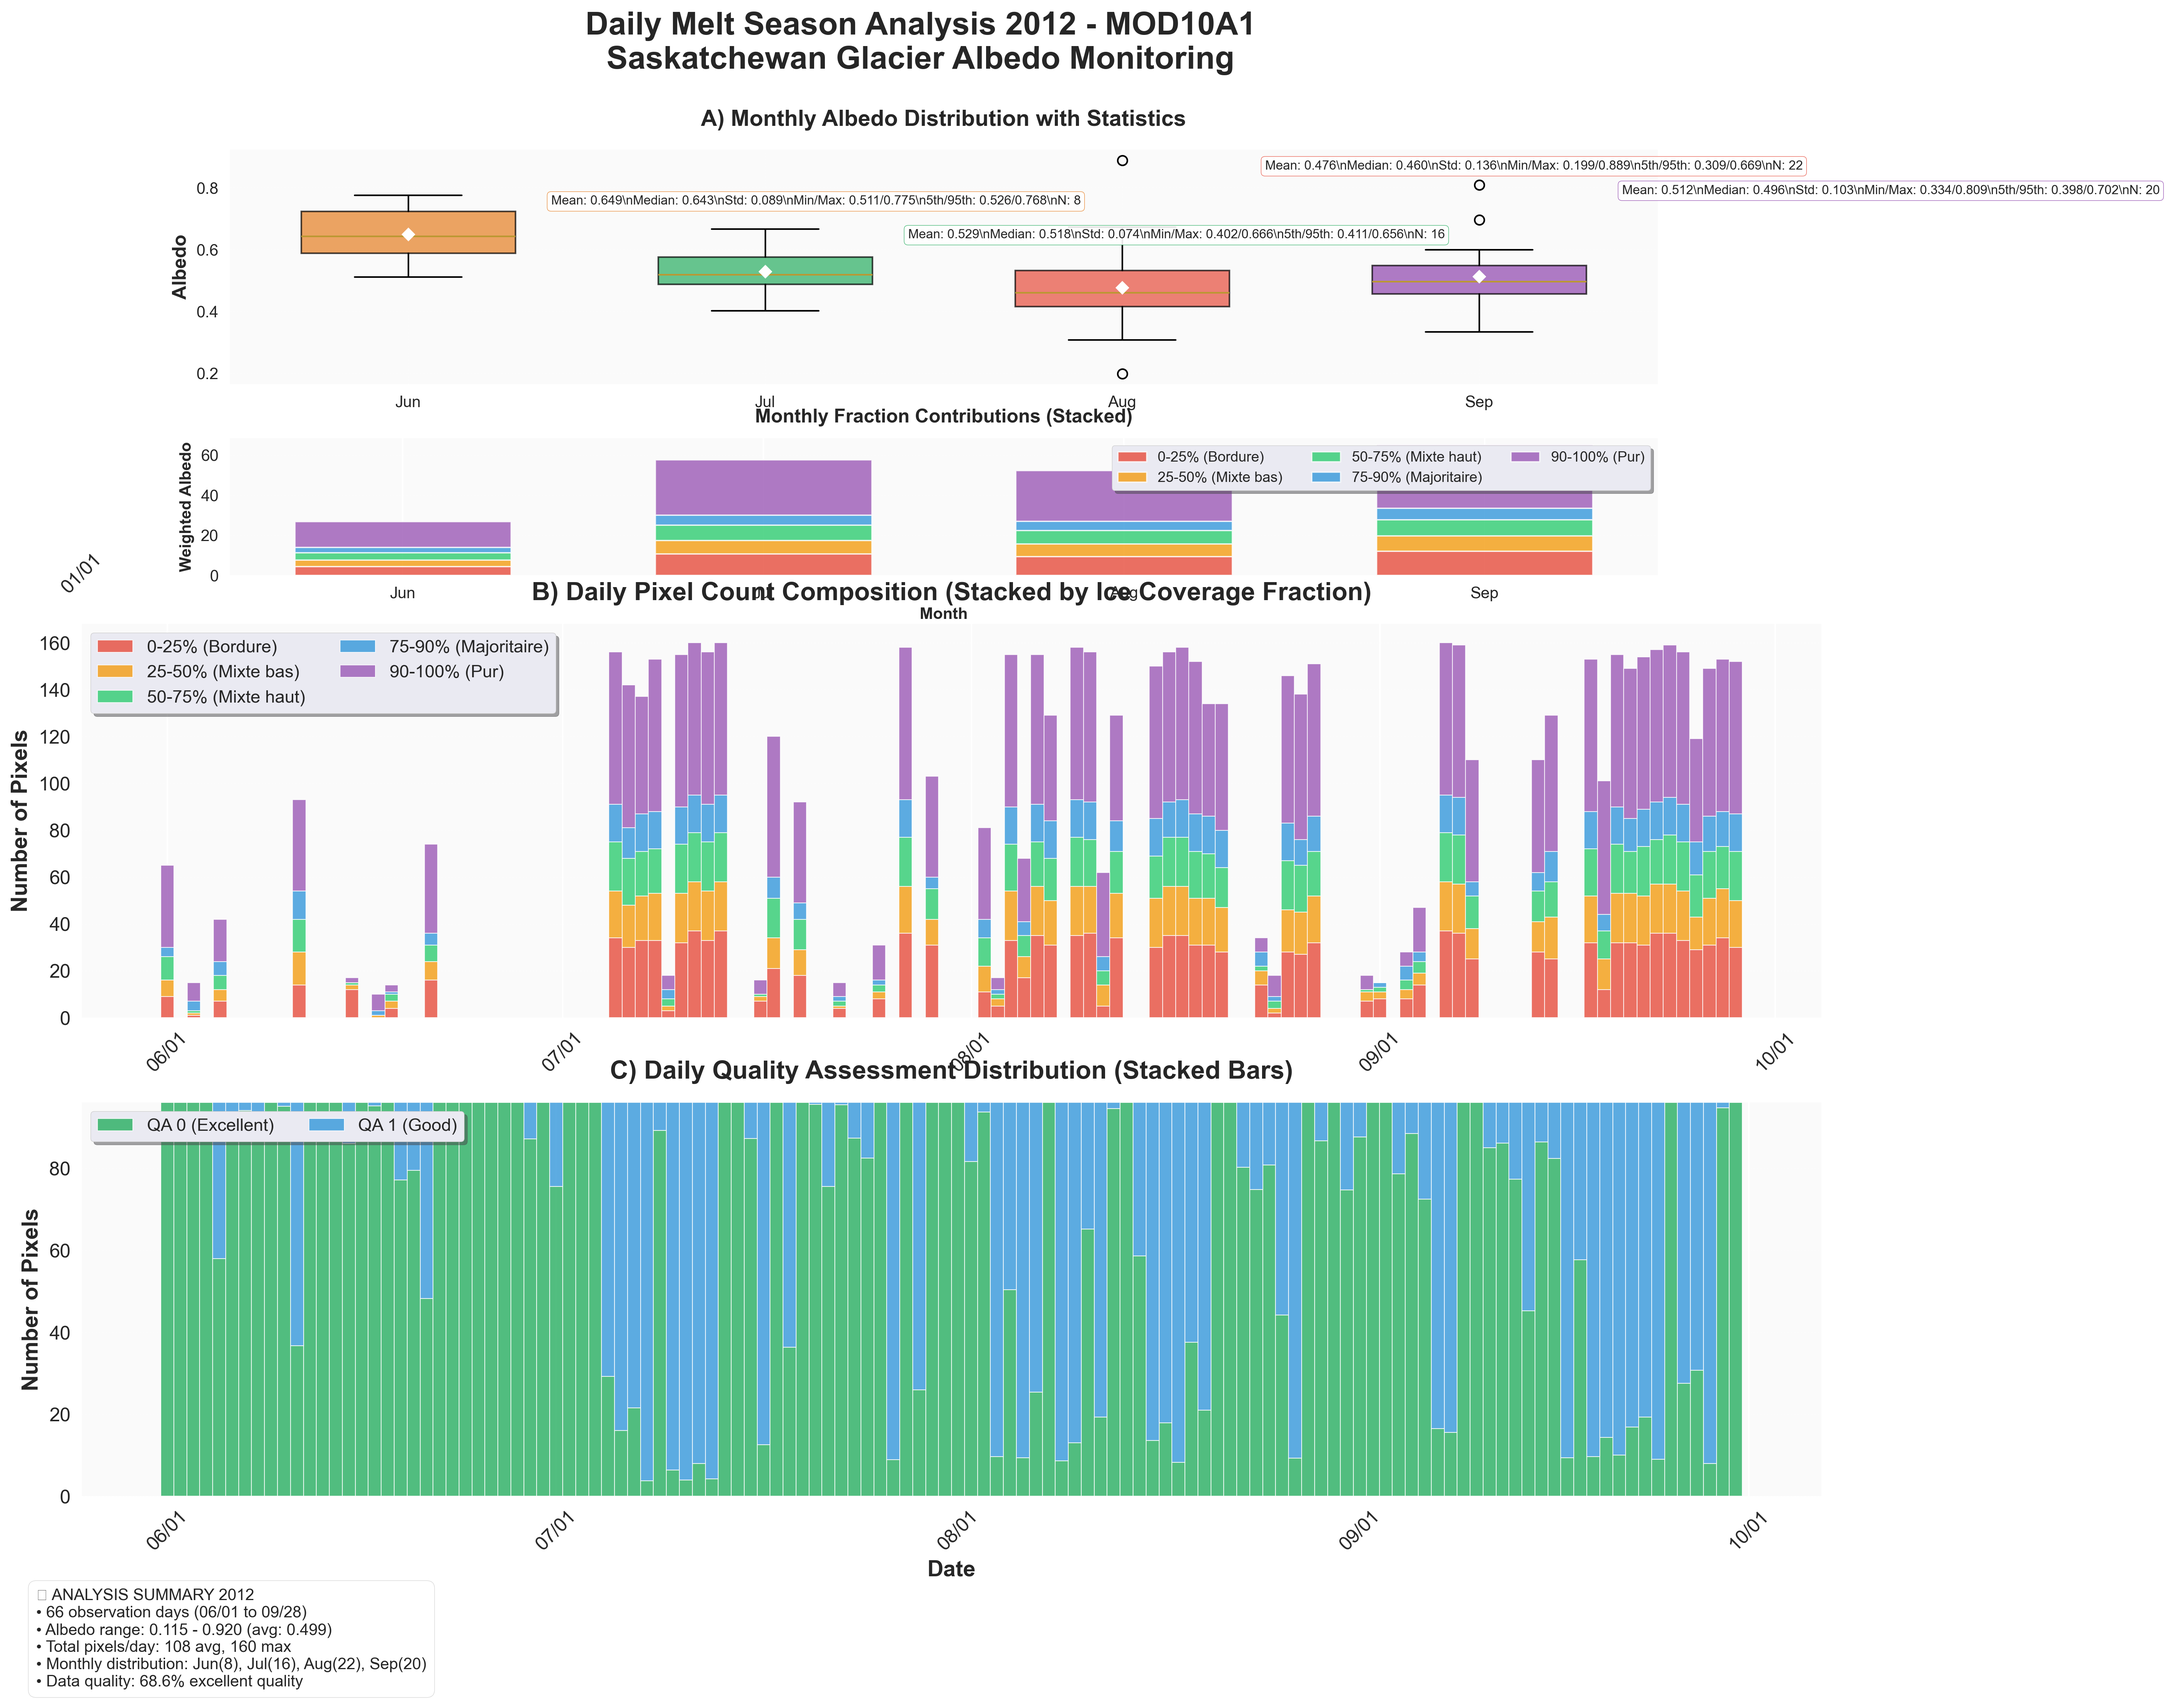
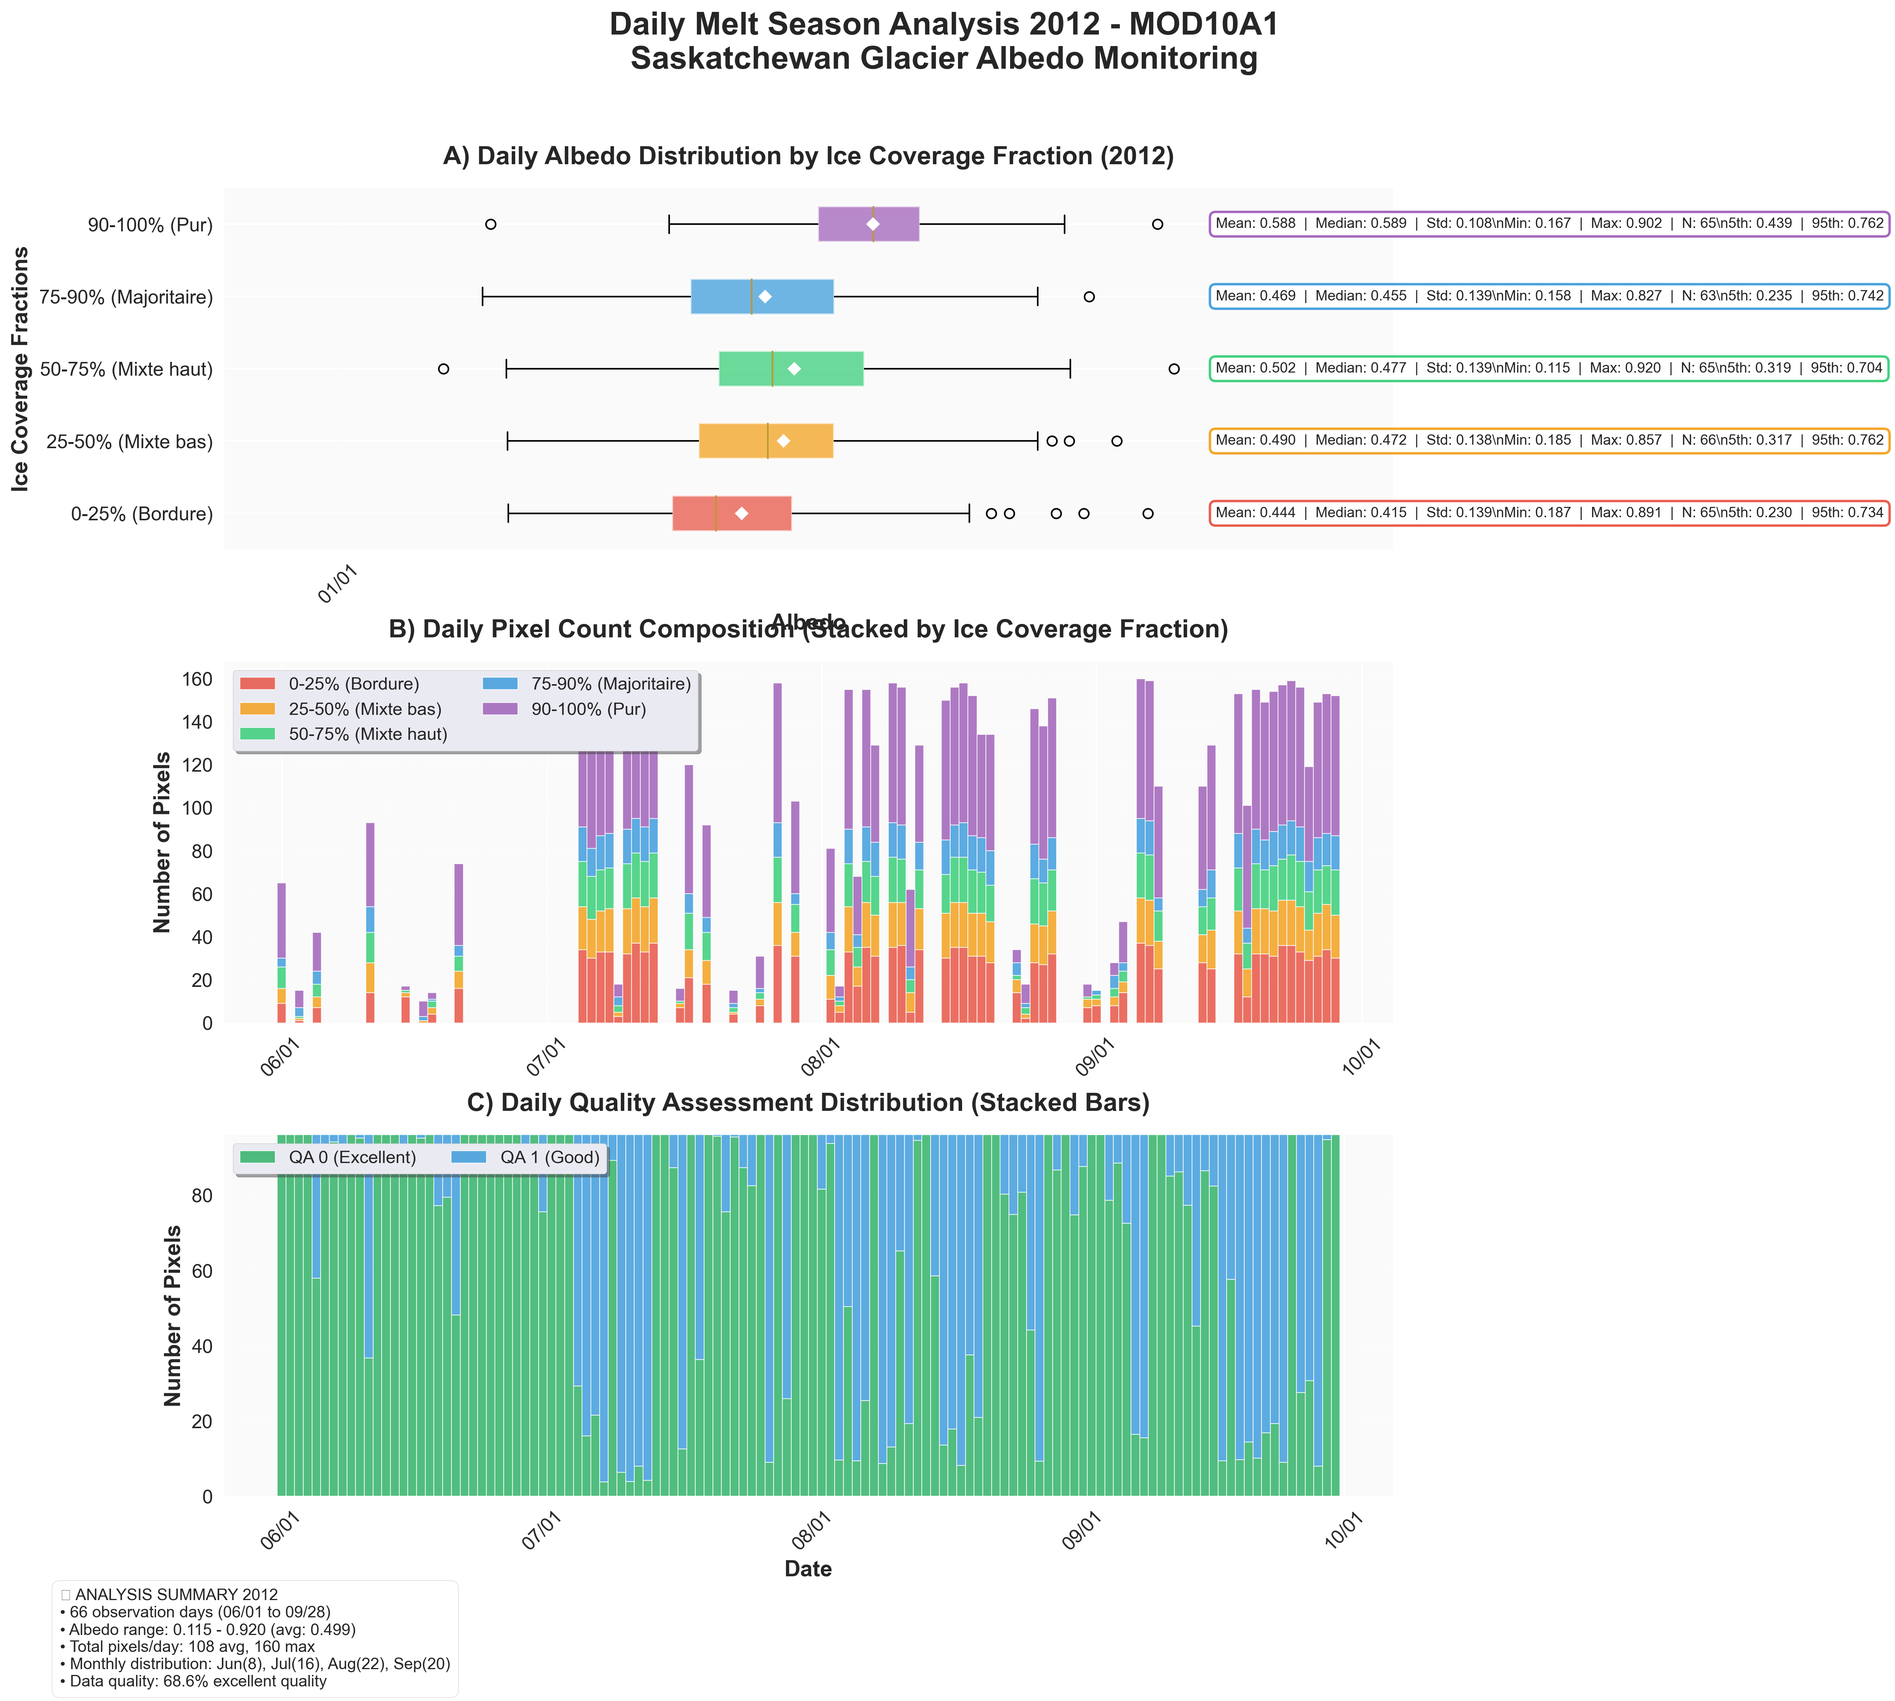
Restore daily stacked bars with softer color palette
- Return to original daily albedo composition stacked bars
- Replace bright modern colors with softer, more subtle palette:
  * Border: soft red (#c7a8a8)
  * Mixed_Low: soft orange (#d4b896)
  * Mixed_High: soft green (#a8c7a8)
  * Mostly_Ice: soft blue (#a8b8c7)
  * Pure_Ice: soft purple (#b8a8c7)
- Maintain all original functionality with weighted albedo contributions
- Keep professional styling with white edges and subtle grid

🤖 Generated with [Claude Code](https://claude.ai/code)

diff --git a/src/saskatchewan_albedo/visualization/pixel_plots.py b/src/saskatchewan_albedo/visualization/pixel_plots.py
@@ -84,115 +84,96 @@ class PixelVisualizer:
     
     def _create_hybrid_albedo_analysis(self, ax, year, year_data, modern_colors):
         """
-        Crée des box plots quotidiens pour chaque fraction avec statistiques détaillées
+        Crée des barres empilées quotidiennes d'albédo avec couleurs plus douces
         
         Args:
             ax: Matplotlib axes object
             year: Année analysée
             year_data: Données pour cette année
-            modern_colors: Palette de couleurs
+            modern_colors: Palette de couleurs (sera remplacée par des couleurs plus douces)
         """
-        print(f"🎨 Création des box plots quotidiens par fraction pour {year}...")
+        print(f"🎨 Création des barres empilées quotidiennes d'albédo pour {year}...")
         
-        # Collecter les données quotidiennes par fraction
-        fraction_data = {}
+        # Palette de couleurs plus douces et subtiles
+        soft_colors = {
+            'border': '#c7a8a8',      # Rouge doux
+            'mixed_low': '#d4b896',   # Orange doux
+            'mixed_high': '#a8c7a8',  # Vert doux  
+            'mostly_ice': '#a8b8c7',  # Bleu doux
+            'pure_ice': '#b8a8c7'     # Violet doux
+        }
         
-        for fraction in self.fraction_classes:
-            albedo_col = f"{fraction}_mean"
+        # Préparer les données pour barres empilées - contribution pondérée d'albédo
+        albedo_data = {}
+        valid_dates = []
+        
+        for _, row in year_data.iterrows():
+            date = row['date']
+            day_contributions = {}
+            total_weighted_albedo = 0
+            total_pixels = 0
             
-            if albedo_col in year_data.columns:
-                # Extraire toutes les valeurs quotidiennes valides pour cette fraction
-                valid_values = year_data[albedo_col].dropna()
-                if len(valid_values) > 0:
-                    fraction_data[fraction] = valid_values.values
+            # Calculer la contribution pondérée de chaque fraction
+            for fraction in self.fraction_classes:
+                albedo_col = f"{fraction}_mean"
+                pixel_col = f"{fraction}_pixel_count"
+                
+                if (albedo_col in row.index and pixel_col in row.index and 
+                    pd.notna(row[albedo_col]) and pd.notna(row[pixel_col]) and row[pixel_col] > 0):
+                    
+                    # Pondérer l'albédo par le nombre de pixels
+                    weighted_contribution = row[albedo_col] * row[pixel_col]
+                    day_contributions[fraction] = weighted_contribution
+                    total_weighted_albedo += weighted_contribution
+                    total_pixels += row[pixel_col]
+            
+            # N'inclure que les jours avec des données
+            if day_contributions and total_pixels > 0:
+                valid_dates.append(date)
+                # Normaliser les contributions pour obtenir l'albédo proportionnel
+                for fraction in day_contributions:
+                    if fraction not in albedo_data:
+                        albedo_data[fraction] = []
+                    albedo_data[fraction].append(day_contributions[fraction] / total_pixels)
+                
+                # Remplir les fractions manquantes avec 0
+                for fraction in self.fraction_classes:
+                    if fraction not in day_contributions:
+                        if fraction not in albedo_data:
+                            albedo_data[fraction] = []
+                        albedo_data[fraction].append(0)
         
-        if not fraction_data:
+        if valid_dates and albedo_data:
+            # Créer les barres empilées
+            bottom_values = np.zeros(len(valid_dates))
+            width = 1.0  # Largeur complète pour les données quotidiennes
+            
+            for fraction in self.fraction_classes:
+                if fraction in albedo_data and len(albedo_data[fraction]) == len(valid_dates):
+                    values = np.array(albedo_data[fraction])
+                    
+                    ax.bar(valid_dates, values, width, bottom=bottom_values,
+                           label=f'{self.class_labels[fraction]}',
+                           color=soft_colors.get(fraction, '#b0b0b0'),
+                           alpha=0.8, edgecolor='white', linewidth=0.5)
+                    
+                    bottom_values += values
+            
+            ax.set_title('A) Daily Albedo Composition (Stacked by Ice Coverage Fraction)', 
+                         fontsize=16, fontweight='bold', pad=15)
+            ax.set_ylabel('Weighted Albedo', fontsize=14, fontweight='bold')
+            ax.set_ylim(0, max(bottom_values) * 1.1 if len(bottom_values) > 0 else 1)
+            ax.legend(loc='upper left', frameon=True, fancybox=True, shadow=True, 
+                      fontsize=11, ncol=2)
+            ax.grid(True, alpha=0.4, linestyle=':', linewidth=0.8, axis='y')
+            ax.set_facecolor('#fafafa')
+            
+            print(f"✅ Panel A: Barres empilées d'albédo quotidiennes pour {len(valid_dates)} jours")
+        else:
             ax.text(0.5, 0.5, 'No albedo data available for this year', 
-                   ha='center', va='center', transform=ax.transAxes, fontsize=14)
-            ax.set_title('A) Daily Albedo Distribution by Fraction (No Data)', 
-                        fontsize=16, fontweight='bold', pad=15)
-            return
-        
-        # Préparer les données pour les box plots
-        box_data = []
-        box_labels = []
-        box_colors = []
-        fraction_stats = {}
-        
-        for fraction in self.fraction_classes:
-            if fraction in fraction_data:
-                data = fraction_data[fraction]
-                box_data.append(data)
-                box_labels.append(self.class_labels[fraction])
-                box_colors.append(modern_colors.get(fraction, '#7f8c8d'))
-                
-                # Calculer les statistiques détaillées
-                fraction_stats[fraction] = {
-                    'mean': np.mean(data),
-                    'median': np.median(data),
-                    'std': np.std(data),
-                    'min': np.min(data),
-                    'max': np.max(data),
-                    'p5': np.percentile(data, 5),
-                    'p95': np.percentile(data, 95),
-                    'n': len(data)
-                }
-        
-        # Créer les box plots horizontaux
-        if box_data:
-            # Box plots horizontaux pour un meilleur affichage des étiquettes
-            bp = ax.boxplot(box_data, vert=False, patch_artist=True, 
-                           showmeans=True, meanline=False,
-                           meanprops={'marker': 'D', 'markerfacecolor': 'white', 
-                                     'markeredgecolor': 'black', 'markersize': 6})
-            
-            # Colorer les boîtes
-            for patch, color in zip(bp['boxes'], box_colors):
-                patch.set_facecolor(color)
-                patch.set_alpha(0.7)
-                patch.set_edgecolor('white')
-                patch.set_linewidth(1.5)
-            
-            # Définir les étiquettes Y
-            ax.set_yticklabels(box_labels)
-            ax.set_yticks(range(1, len(box_labels) + 1))
-            
-            # Ajouter les annotations statistiques à droite de chaque box plot
-            y_positions = range(1, len(box_data) + 1)
-            x_max = max([np.max(data) for data in box_data])
-            
-            for i, (fraction, stats) in enumerate(fraction_stats.items()):
-                y_pos = y_positions[i]
-                
-                # Texte des statistiques bien formaté
-                stats_text = f"Mean: {stats['mean']:.3f}  |  "
-                stats_text += f"Median: {stats['median']:.3f}  |  "
-                stats_text += f"Std: {stats['std']:.3f}\\n"
-                stats_text += f"Min: {stats['min']:.3f}  |  "
-                stats_text += f"Max: {stats['max']:.3f}  |  "
-                stats_text += f"N: {stats['n']}\\n"
-                stats_text += f"5th: {stats['p5']:.3f}  |  "
-                stats_text += f"95th: {stats['p95']:.3f}"
-                
-                # Positionner l'annotation à droite du box plot
-                ax.text(x_max * 1.05, y_pos, stats_text, fontsize=9, 
-                       verticalalignment='center', horizontalalignment='left',
-                       bbox=dict(boxstyle='round,pad=0.4', facecolor='white', 
-                                edgecolor=modern_colors.get(fraction, '#7f8c8d'), 
-                                alpha=0.9, linewidth=1.5))
-        
-        # Configuration du graphique
-        ax.set_title(f'A) Daily Albedo Distribution by Ice Coverage Fraction ({year})', 
-                    fontsize=16, fontweight='bold', pad=15)
-        ax.set_xlabel('Albedo', fontsize=14, fontweight='bold')
-        ax.set_ylabel('Ice Coverage Fractions', fontsize=14, fontweight='bold')
-        ax.grid(True, alpha=0.3, linestyle=':', linewidth=0.8, axis='x')
-        ax.set_facecolor('#fafafa')
-        
-        # Ajuster les marges pour les annotations
-        ax.margins(x=0.3)  # Plus d'espace à droite pour les annotations
-        
-        print(f"✅ Panel A: Box plots quotidiens pour {len(fraction_data)} fractions")
+                    ha='center', va='center', transform=ax.transAxes, fontsize=14)
+            ax.set_title('A) Daily Albedo Composition (No Data)', 
+                         fontsize=16, fontweight='bold', pad=15)
         
     def create_monthly_pixel_count_plots(self, pixel_results, save_path=None):
         """
